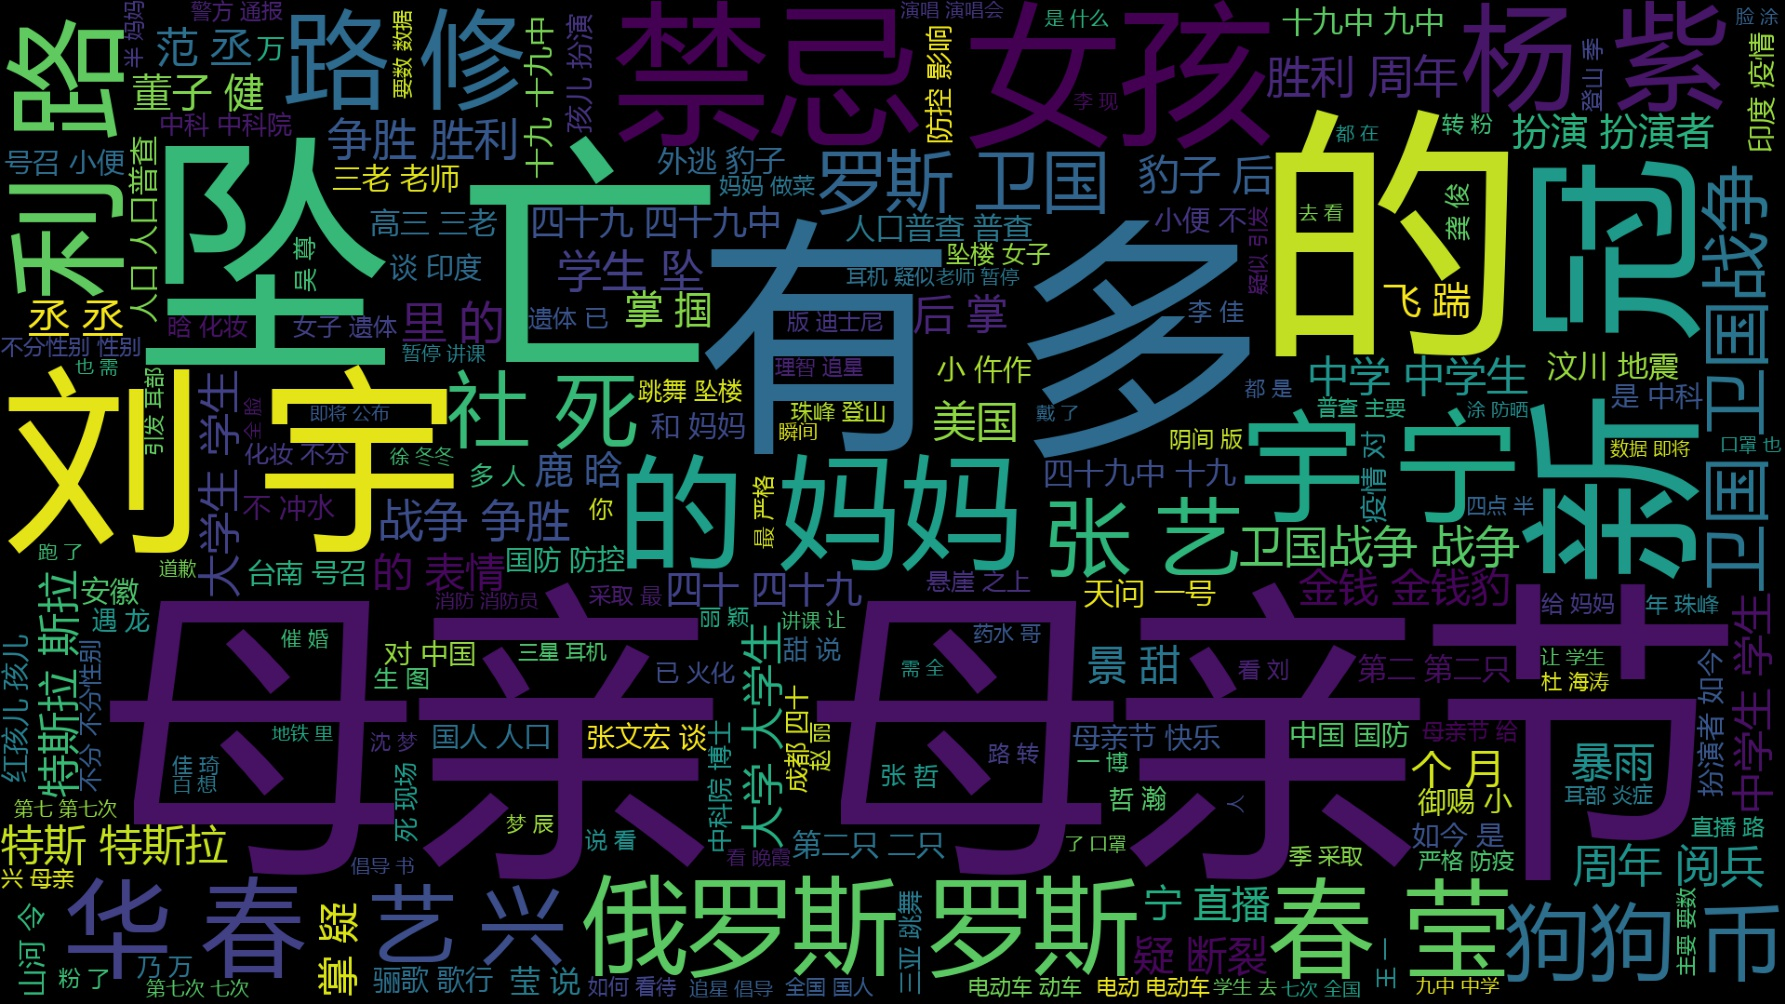
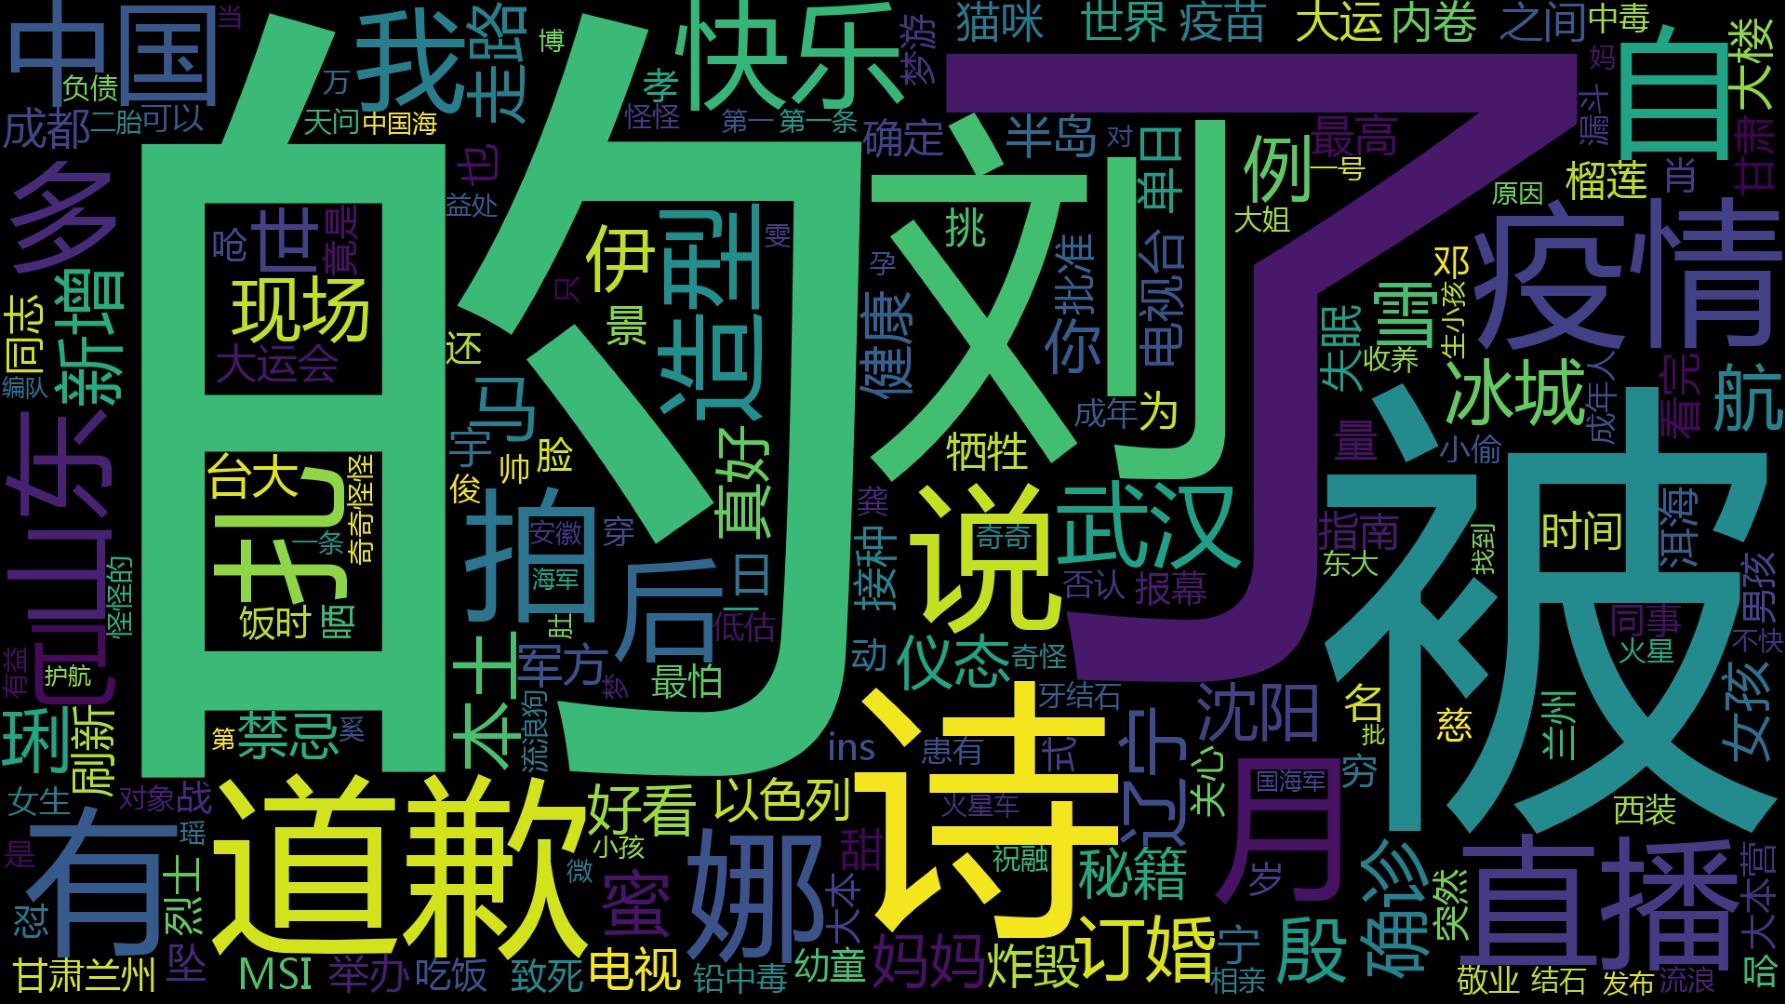
词云数据不累计

diff --git a/weibo-hotrank.py b/weibo-hotrank.py
@@ -26,13 +26,13 @@ for i in range(50):
 	hot_news['title'] = title[i+1].get_text()
 	news.append(hot_news)
 	
-f = open('hotrank.csv', 'a', encoding='utf-8-sig')
+f = open('data/' + str(bjtime) + '.csv', 'a', encoding='utf-8-sig')
 f.write(str(bjtime) + ',')
 for i in news:
 	f.write(i['title'] + ',')
 f.write('\n' + '\n')
-
 print('数据抓取完成！')
+
 
 
 
@@ -43,7 +43,7 @@ from wordcloud import WordCloud
 import jieba
 
 
-text_from_file_with_apath = open('hotrank.csv').read()
+text_from_file_with_apath = open('data/' + str(bjtime) + '.csv').read()
 wordlist_after_jieba = jieba.cut(text_from_file_with_apath, cut_all = True)
 wl_space_split = " ".join(wordlist_after_jieba)
 my_wordcloud = WordCloud(font_path="msyh.ttf", width=1920, height=1080).generate(wl_space_split)
